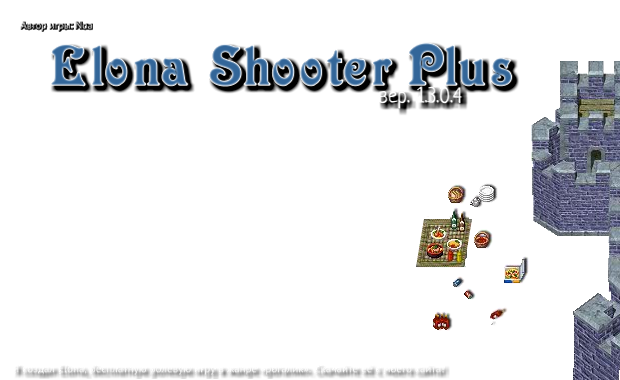
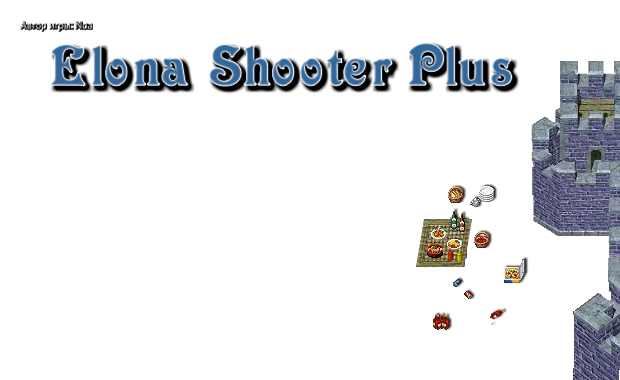
Brand browser client Plus+ and show its own release version

Changed region(s): [[0.0306, 0.9553, 0.7355, 1.0], [0.6129, 0.2316, 0.7661, 0.3184]]

diff --git a/web/src/main.ts b/web/src/main.ts
@@ -1,4 +1,5 @@
 import { localizedImage } from './localized-image.ts';
+import { version as browserVersion } from '../package.json';
 import { localizedText, fitLocalizedText } from './localized-text.ts';
 import { getLanguage, setLanguage, onLanguageChanged, t } from './i18n.ts';
 import { buttonInput, refreshMenuHover } from './button-input.ts';
@@ -671,6 +672,22 @@ class ElonaScene extends Phaser.Scene {
     this.clip('battleBackdrop', 1, -5, -15);
     const cloud = this.clip('battleCloud', 1, 175, -23)!;
     this.image('title');
+    // Исходный логотип сохранён; дополнительный плюс обозначает браузерное продолжение.
+    const plusShape = [{ x: -3, y: -10 }, { x: 3, y: -10 }, { x: 3, y: -3 }, { x: 10, y: -3 },
+      { x: 10, y: 3 }, { x: 3, y: 3 }, { x: 3, y: 10 }, { x: -3, y: 10 },
+      { x: -3, y: 3 }, { x: -10, y: 3 }, { x: -10, y: -3 }, { x: -3, y: -3 }]
+      .map(p => new Phaser.Math.Vector2(p.x, p.y));
+    const plus = this.add.graphics({ x: 535, y: 65 }).setName('title-plus');
+    plus.lineStyle(5, 0x101a1e).strokePoints(plusShape.map(p => p.clone().add(new Phaser.Math.Vector2(1, 2))), true);
+    plus.fillStyle(0x030507).fillPoints(plusShape, true);
+    plus.lineStyle(1.5, 0xb6d2e0).strokePoints(plusShape, true);
+    this.root.add(plus);
+    const version = this.text(545, 96, `Browser version ${browserVersion}`, 13, '#eee0b5')
+      .setOrigin(1, 0).setName('title-version').setShadow(1, 1, '#000000', 2);
+    fitLocalizedText(version, { width: 300, height: 22 });
+    const credits = this.text(310, 362, 'Original game: Noa · Plus: its creators and contributors', 11, '#e3dfc6')
+      .setOrigin(0.5, 0).setName('title-credits').setShadow(1, 1, '#000000', 2);
+    fitLocalizedText(credits, { width: 590, height: 17, minFontSize: 10 });
     const actors = this.add.container(0, 0); this.root.add(actors);
     const buttons: Phaser.GameObjects.Image[] = [];
     for (const [key, x, y, action] of [

diff --git a/web/src/locales/ru-ui.ts b/web/src/locales/ru-ui.ts
@@ -441,7 +441,9 @@ export const ruUI: Record<string, string> = {
   "Switch to Russian": "Переключить на русский",
   "Switch to English": "Переключить на английский",
   "Русский": "Русский",
-  "Elona Shooter Plus: Unofficial Browser Port": "Elona Shooter Plus: Неофициальный браузерный порт",
+  "Elona Shooter Plus+: Unofficial Browser Port": "Elona Shooter Plus+: Неофициальный браузерный порт",
+  "Browser version {0}": "Браузерная версия {0}",
+  "Original game: Noa · Plus: its creators and contributors": "Оригинальная игра: Noa · Plus: авторы и участники",
   "Elona Shooter by Noa and the Elona Shooter Plus contributors. A free, unofficial browser port made with AI.": "Elona Shooter от Noa и участников Elona Shooter Plus. Бесплатный неофициальный браузерный порт, созданный с помощью ИИ.",
   "Elona Shooter game": "Игра Elona Shooter",
   "Loading original game assets…": "Загрузка ресурсов оригинальной игры…",

diff --git a/web/index.html b/web/index.html
@@ -4,7 +4,7 @@
     <meta charset="UTF-8" />
     <meta name="viewport" content="width=device-width, initial-scale=1.0, viewport-fit=cover" />
     <meta name="description" content="Elona Shooter by Noa and the Elona Shooter Plus contributors. A free, unofficial browser port made with AI." />
-    <title>Elona Shooter Plus: Unofficial Browser Port</title>
+    <title>Elona Shooter Plus+: Unofficial Browser Port</title>
   </head>
   <body>
     <main>

diff --git a/tools/localize_web_assets.py b/tools/localize_web_assets.py
@@ -227,12 +227,14 @@ def build_assets(only=None):
     localized = {'images': {}, 'clips': {}, 'hitMasks': {}}
     stamp = hashlib.sha256(json.dumps(translations, ensure_ascii=False).encode() + Path(__file__).read_bytes()).hexdigest()
     cache = WORK / 'render-cache'; cache.mkdir(exist_ok=True)
-    def cached(key, action):
+    def cached(key, action, source_bytes=b''):
         if only and key not in only:
             return
         marker = cache / f'{key}.stamp'
-        if not marker.exists() or marker.read_text() != stamp:
-            action(); marker.write_text(stamp)
+        # Изменения состава английского кадра тоже требуют обновить перевод.
+        current = hashlib.sha256(stamp.encode() + source_bytes).hexdigest() if source_bytes else stamp
+        if not marker.exists() or marker.read_text() != current:
+            action(); marker.write_text(current)
     # Готовые XML кадров уже содержат точные исключения динамических полей и смещения.
     jobs = []
     for key, asset in manifest['images'].items():
@@ -256,7 +258,7 @@ def build_assets(only=None):
                 picture = picture.crop((x, y, x + round(asset['width'] * 2), y + round(asset['height'] * 2)))
             output = DEST / asset['file']; output.parent.mkdir(parents=True, exist_ok=True)
             picture.save(output, **({'lossless': True} if double else {'optimize': True}))
-        jobs.append((key, render))
+        jobs.append((key, render, path.read_bytes()))
     with ThreadPoolExecutor(max_workers=3) as pool:
         list(pool.map(lambda job: cached(*job), jobs))
     ru_source = WORK / 'source.swf'

diff --git a/tools/extract_web_assets.py b/tools/extract_web_assets.py
@@ -924,7 +924,7 @@ def main():
     from extract_title import TITLE_ACTORS, extract as extract_title
     extract_title(xml, manifest, args.refresh)
     omit_title = {"newGameButton", "continueButton", "helpButton", "longest", "saveBox", "trash",
-                  "vol", "kong_mc", "kong_mc2", "armorButton"}
+                  "vol", "kong_mc", "kong_mc2", "armorButton", "elonaButton"}
     omit_battle = {"dayText", "moneyText", "castleHPText", "ammoText", "lvText", "expText", "apText",
                    "customCursor", "frenzyBar", "frenzyBar2", "frenzyText", "menuButton", "vol", "ammobar", "bottomBar"}
     omit_gene = {"hint", "closeButton", "desc2", "classPic", "optHint", "optHint3", "optHC", "optCasual",
@@ -963,7 +963,9 @@ def main():
         selected = placed_frame(timeline, frame)
         # Текст2672 скрыт под bg в SWF; он не должен оказаться поверх отделённого фона.
         if name == "title":
-            selected = [tag for tag in selected if int(tag.get("depth")) > 5 and int(tag.get("characterId")) not in TITLE_ACTORS.values()]
+            # Версия браузерного клиента и благодарности выводятся отдельно от логотипа.
+            selected = [tag for tag in selected if int(tag.get("depth")) > 5
+                        and int(tag.get("characterId")) not in {*TITLE_ACTORS.values(), 2499}]
         if name == "battle":
             selected = [tag for tag in selected if tag.get("characterId") != "2672"]
         manifest["images"][name] = static_screen(xml, name, selected, omit, offset)

diff --git a/FAITHFULNESS.md b/FAITHFULNESS.md
@@ -22,6 +22,8 @@ The [fidelity review](docs/fidelity-review.md) records the original behavior and
 
 Menus, scrolling, touch controls and display scaling are adapted for browsers. Normal play can save during combat and results as well as in town; Flash adventure saves were town checkpoints. Hardcore still permits saving and exporting only in town. Combat resumes paused after Continue.
 
+The browser client is called **Elona Shooter Plus+**. The title keeps the original logo with an additional plus, shows the browser release version, and credits Noa and the Plus creators. **1.3.0.4** identifies the upstream Flash release, not the browser client.
+
 Browser adventures currently support **Day 1–1000**. This limit comes from browser save validation. Later-day progression has been checked with controlled scenarios; natural late-game difficulty still needs more playtesting.
 
 Random outcomes will not exactly match a Flash playthrough. Browser saves retain their random stream for continuation, but Flash saves did not store that generator state. Fonts, filters, cosmetic randomness, animation timing and sound mixing can differ. Performance has not been benchmarked against native Flash.

diff --git a/docs/port-status.md b/docs/port-status.md
@@ -2,9 +2,16 @@
 
 Updated 2026-11-05. **Classic + optional Expanded desktop/touch release, save v46.**
 [Play online](https://pastalapizza.site/elona/) or [locally](http://127.0.0.1:5175/elona/).
-Browser Release 1.1.0 uses `index-GPl88U5c.js`. The documented
+Browser Release 1.2.0 uses `index-qxtJXMID.js`. The documented
 desktop completion boundary was reached in v43. The subsequent joint review
 found and corrected differences in combat and end-of-day settlement.
+
+The browser client is **Elona Shooter Plus+**. Its title retains the ornate
+logo, shows the package's browser version and credits Noa and the Plus creators
+in English and Russian. The upstream Flash version remains 1.3.0.4. Muted
+Chromium checks covered both title layouts at native and double size, New Game,
+combat, results and exact save/Continue. Seven localization checks and the
+production build passed. Gameplay and save v46 are unchanged.
 
 The **EN/RU** button beside mute changes language immediately and remembers the
 choice in this browser. Opus translated the UI, game content and lettering in

diff --git a/docs/deployment.md b/docs/deployment.md
@@ -1,7 +1,7 @@
 # VPS deployment
 
 Updated 2026-11-05. Domain:
-[Elona Shooter Plus](https://pastalapizza.site/elona/).
+[Elona Shooter Plus+](https://pastalapizza.site/elona/).
 The root URL redirects to /elona/; www redirects to the apex domain.
 The [HTTP IP address](http://151.241.155.138/elona/) remains available.
 The ordinary Chrome HTTPS route now passes without host mappings or TLS bypass.
@@ -9,8 +9,8 @@ The ordinary Chrome HTTPS route now passes without host mappings or TLS bypass.
 ## Current state
 
 - Ubuntu24.04, distribution Caddy2.6.2 package, enabled systemd service.
-- Browser Release 1.1.0 is `/srv/elona/releases/review-GPl88U5c/elona/`
-  (save v46). The preceding release is `releases/review-D9amNAlV`.
+- Browser Release 1.2.0 is `/srv/elona/releases/review-qxtJXMID/elona/`
+  (save v46). The preceding release is `releases/review-GPl88U5c`.
 - /srv/elona/current points to that release's parent directory.
 - Active config: /etc/caddy/Caddyfile, from deploy/Caddyfile.https.
 - Both domain certificates were issued successfully by Let's Encrypt. Caddy's

diff --git a/docs/localization.md b/docs/localization.md
@@ -44,6 +44,9 @@ The English assets and original SWF are unchanged. Inspect the generated
 This maintenance step requires the existing FFDec/Java extraction tools, Pillow
 and OpenCV. To rebuild only the day badge's containing screens, append
 `--only battle townHud townScene`; other existing exports are retained.
+Screen caches also track the extracted English XML, so a changed layout
+refreshes its translated artwork. The title's browser version and creator
+credits are live text; they do not need a new image export each release.
 
 Russian uses [Neucha](https://fonts.google.com/specimen/Neucha) for handwritten
 menus and [PT Sans](https://fonts.google.com/specimen/PT+Sans) for compact UI.

diff --git a/docs/releases/browser-v1.2.0.md b/docs/releases/browser-v1.2.0.md
@@ -1,0 +1,12 @@
+# Browser release 1.2.0
+
+- The browser client is now **Elona Shooter Plus+**, with the familiar logo.
+- The title shows the browser release version instead of the original Flash
+  version. It follows the package version automatically.
+- The footer credits Noa and the Plus creators and contributors in English
+  and Russian, replacing the original Elona RPG advertisement.
+
+The source game remains Elona Shooter Plus 1.3.0.4. Gameplay and saves are
+unchanged.
+
+Refresh the [game](https://pastalapizza.site/elona/) to load the update.

diff --git a/DEVELOPMENT.md b/DEVELOPMENT.md
@@ -104,7 +104,7 @@ For an embed:
 
 ```html
 <div style="width:100%;max-width:1240px;aspect-ratio:31/19">
-  <iframe src="/elona/" title="Elona Shooter Plus"
+  <iframe src="/elona/" title="Elona Shooter Plus+"
     width="620" height="380" allow="fullscreen"
     style="display:block;width:100%;height:100%;border:0"></iframe>
 </div>

diff --git a/README.md b/README.md
@@ -1,4 +1,4 @@
-# Elona Shooter Plus
+# Elona Shooter Plus+
 
 **[Play in your browser](https://pastalapizza.site/elona/)** · [Download the browser release](https://github.com/PMajesty/elona_shooter_plus_PLUS/releases/latest)
 
